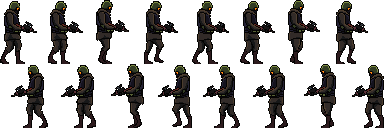
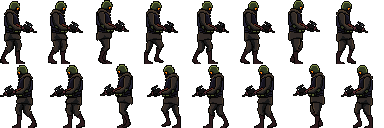
Add rangers
Rangers can:
- periodically hunt for a specified animal species
- reveal poachers
- kill poachers
- reveal the area around them at night

Changed region(s): [[0.0, 0.5, 1.0, 1.0]]

diff --git a/Safari/Safari/Source/Objects/Entities/Ranger.cs b/Safari/Safari/Source/Objects/Entities/Ranger.cs
@@ -1,35 +1,106 @@
-using Microsoft.Xna.Framework;
+using Engine;
+using Engine.Components;
+using Microsoft.Xna.Framework;
+using Microsoft.Xna.Framework.Graphics;
+using Safari.Components;
 using Safari.Objects.Entities.Animals;
 using Safari.Scenes;
+using System;
 
 namespace Safari.Objects.Entities;
+
+public enum RangerState {
+	Wandering,
+	Chasing
+}
+
 public class Ranger : Entity {
 	/// <summary>
 	/// The monthly salary of all rangers, payed in advance
 	/// </summary>
 	public const int SALARY = 1500;
+	/// <summary>
+	/// The amount of hours that must pass after a successful hunt (killing an ANIMAL) before the ranger will try again
+	/// </summary>
+	public const int HUNT_COOLDOWN_HRS = 12;
+	/// <summary>
+	/// The walking speed of rangers (relative to the default NavCmp speed)
+	/// </summary>
+	public const float SPEED = 1f;
 
-	private static AnimalSpecies? defaultTarget;
-	private AnimalSpecies? targetSpecies;
-	
 	/// <summary>
 	/// The species of animals rangers should target when they
 	/// don't have a specific target (can be changed by the player)
 	/// </summary>
-	public static AnimalSpecies? DefaultTarget {
-		get => defaultTarget;
-		set => defaultTarget = value;
-	}
+	public static AnimalSpecies? DefaultTarget { get; set; } = null;
+
+	private AnimalSpecies? targetSpecies = null;
 	/// <summary>
-	/// The species of animals this particular ranger should target
+	/// The species of animals this particular ranger should target <br/>
+	/// Set to null to use <see cref="DefaultTarget"/>
 	/// </summary>
 	public AnimalSpecies? TargetSpecies {
-		get => targetSpecies;
-		set => targetSpecies = value;
+		get {
+			return targetSpecies ?? DefaultTarget;
+		}
+		set {
+			targetSpecies = value;
+		}
 	}
+
+	/// <summary>
+	/// The Animal or Poacher the ranger is currently chasing
+	/// </summary>
+	public Entity ChaseTarget { get; private set; } = null;
+
+	/// <summary>
+	/// The in-game date of the last successful animal killing
+	/// </summary>
+	public DateTime LastSuccessfulHunt { get; private set; } = DateTime.MinValue;
+	/// <summary>
+	/// Whether the ranger can try to hunt for an animal again
+	/// </summary>
+	public bool CanHunt => (GameScene.Active.Model.IngameDate - LastSuccessfulHunt).TotalHours >= HUNT_COOLDOWN_HRS;
+
+	/// <summary>
+	/// The animated sprite component of the ranger
+	/// </summary>
+	public AnimatedSpriteCmp AnimatedSprite => Sprite as AnimatedSpriteCmp;
+	/// <summary>
+	/// The state machine used for transitioning between the different ranger behavior types
+	/// </summary>
+	public StateMachineCmp<RangerState> StateMachine { get; init; }
+	/// <summary>
+	/// Shorthand for StateMachine.State
+	/// </summary>
+	public RangerState State => StateMachine.CurrentState;
+
+	private int lastSalaryMonth = -1;
 
 	public Ranger(Vector2 pos) : base(pos) {
 		DisplayName = "Ranger";
+
+		AnimatedSpriteCmp animSprite = new(Game.ContentManager.Load<Texture2D>("Assets/Ranger/Walk"), 8, 2, 10);
+		animSprite.Animations["walk-right"] = new Animation(0, 8, true);
+		animSprite.Animations["walk-left"] = new Animation(1, 8, true);
+		Sprite = animSprite;
+		Sprite.LayerDepth = Animal.ANIMAL_LAYER;
+		Sprite.YSortEnabled = true;
+		Sprite.YSortOffset = 64;
+		Attach(Sprite);
+
+		animSprite.CurrentAnimation = "walk-right";
+
+		Bounds = new Rectangle(0, 0, 25, 64);
+		SightDistance = 8;
+		ReachDistance = 3;
+		NavCmp.Speed *= SPEED;
+
+		StateMachine = new(RangerState.Wandering);
+		Attach(StateMachine);
+
+		LightEntityCmp lightCmp = new(GameScene.Active.Model.Level, 5);
+		Attach(lightCmp);
 	}
 
 	public override void Load() {
@@ -42,5 +113,152 @@ public class Ranger : Entity {
 		GameScene.Active.Model.RangerCount--;
 
 		base.Unload();
+	}
+
+	public override void Update(GameTime gameTime) {
+		DateTime date = GameScene.Active.Model.IngameDate;
+		if (lastSalaryMonth != date.Month) {
+			int monthDays = DateTime.DaysInMonth(date.Year, date.Month);
+			float salaryRatio = (float)(monthDays - date.Day - 1) / monthDays;
+			GameScene.Active.Model.Funds -= (int)(SALARY * salaryRatio);
+			lastSalaryMonth = date.Month;
+		}
+
+		if (NavCmp.LastIntendedDelta != Vector2.Zero) {
+			bool right = NavCmp.LastIntendedDelta.X > -0.075f;
+			string anim = $"walk-{(right ? "right" : "left")}";
+
+			if (!AnimatedSprite.IsPlaying || (AnimatedSprite.CurrentAnimation != anim && AnimatedSprite.CurrentAnimation.StartsWith("walk"))) {
+				AnimatedSprite.CurrentAnimation = anim;
+			}
+		}
+
+		foreach (Entity entity in GetEntitiesInSight()) {
+			if (entity is Poacher poacher) {
+				poacher.Reveal();
+			}
+		}
+
+		base.Update(gameTime);
+	}
+
+	public override string ToString() {
+		return $"{DisplayName}, {State}, target: {(NavCmp.Target != null ? Utils.Format(NavCmp.Target.Value, false, false) : "none")}";
+	}
+
+	/// <summary>
+	/// Releases the ranger from the park
+	/// </summary>
+	public void Fire() {
+		Die();
+	}
+
+	/// <summary>
+	/// Delegate method for transitioning into Wandering state
+	/// </summary>
+	[StateBegin(RangerState.Wandering)]
+	public void StartWandering() {
+		NavCmp.TargetPosition = GameScene.Active.Model.Level.GetRandomPosition();
+		NavCmp.Moving = true;
+		NavCmp.ReachedTarget += OnWanderingTargetReached;
+	}
+
+	/// <summary>
+	/// Delegate method for handling frame-by-frame wandering logic
+	/// </summary>
+	/// <param name="gameTime">The current MonoGame game time</param>
+	[StateUpdate(RangerState.Wandering)]
+	public void WanderingUpdate(GameTime gameTime) {
+		foreach (Entity entity in GetEntitiesInSight()) {
+			if (CanHunt && ChaseTarget == null && entity is Animal animal && animal.Species == TargetSpecies) {
+				ChaseTarget = animal;
+				StateMachine.Transition(RangerState.Chasing);
+			}
+
+			if (entity is Poacher poacher) {
+				ChaseTarget = poacher;
+				StateMachine.Transition(RangerState.Chasing);
+			}
+		}
+	}
+
+	/// <summary>
+	/// Delegate method for transitioning out of Wandering state
+	/// </summary>
+	[StateEnd(RangerState.Wandering)]
+	public void EndWandering() {
+		NavCmp.TargetPosition = null;
+		NavCmp.ReachedTarget -= OnWanderingTargetReached;
+	}
+
+	private void OnWanderingTargetReached(object sender, ReachedTargetEventArgs e) {
+		NavCmp.TargetPosition = GameScene.Active.Model.Level.GetRandomPosition();
+		NavCmp.Moving = true;
+	}
+
+	/// <summary>
+	/// Delegate method for transitioning into Chasing state
+	/// </summary>
+	[StateBegin(RangerState.Chasing)]
+	public void StartChasing() {
+		if (ChaseTarget == null) {
+			StateMachine.Transition(RangerState.Wandering);
+			return;
+		}
+
+		NavCmp.TargetObject = ChaseTarget;
+		NavCmp.Moving = true;
+		NavCmp.ReachedTarget += OnChaseTargetReached;
+		ChaseTarget.Died += OnChaseTargetDied;
+	}
+
+	private void OnChaseTargetDied(object sender, EventArgs e) {
+		ChaseTarget.Died -= OnChaseTargetDied;
+		ChaseTarget = null;
+		NavCmp.TargetObject = null;
+		StateMachine.Transition(RangerState.Wandering);
+	}
+
+	/// <summary>
+	/// Delegate method for handling frame-by-frame Chasing state logic
+	/// </summary>
+	/// <param name="gameTime"></param>
+	[StateUpdate(RangerState.Chasing)]
+	public void ChasingUpdate(GameTime gameTime) {
+		if (ChaseTarget is Poacher) return;
+
+		foreach (Entity entity in GetEntitiesInSight()) {
+			if (entity is Poacher) {
+				ChaseTarget.Died -= OnChaseTargetDied;
+				ChaseTarget = entity;
+				StateMachine.Transition(RangerState.Chasing);
+				break;
+			}
+		}
+	}
+
+	/// <summary>
+	/// Delegate method for transitioning out of Chasing state
+	/// </summary>
+	[StateEnd(RangerState.Chasing)]
+	public void EndChasing() {
+		if (ChaseTarget != null && ChaseTarget == NavCmp.TargetObject) {
+			ChaseTarget.Died -= OnChaseTargetDied;
+		}
+
+		NavCmp.TargetObject = null;
+		NavCmp.ReachedTarget -= OnChaseTargetReached;
+	}
+
+	private void OnChaseTargetReached(object sender, ReachedTargetEventArgs e) {
+		if (ChaseTarget is Animal) {
+			LastSuccessfulHunt = GameScene.Active.Model.IngameDate;
+		}
+
+		if (ChaseTarget != null && !ChaseTarget.IsDead) {
+			ChaseTarget.Die();
+		}
+
+		StateMachine.Transition(RangerState.Wandering);
 	}
 }

diff --git a/Safari/Safari/Source/Components/LightEntityCmp.cs b/Safari/Safari/Source/Components/LightEntityCmp.cs
@@ -2,6 +2,7 @@
 using Engine.Components;
 using Microsoft.Xna.Framework;
 using Safari.Model;
+using Safari.Objects.Entities;
 using Safari.Scenes;
 
 namespace Safari.Components;
@@ -11,31 +12,26 @@ namespace Safari.Components;
 /// The reason this is different from the way tiles calculate their light is because
 /// entities can move between tiles.
 /// </summary>
+[LimitCmpOwnerType(typeof(Entity))]
 public class LightEntityCmp : Component, IUpdatable {
-
 	private Level level;
 	private int range;
 	private Point? old_map_pos = null;
-	private SpriteCmp sprite;
+	private Entity ownerEntity;
 
 	public LightEntityCmp(Level level, int range) {
 		this.level = level;
 		this.range = range;
-		
 	}
 
 	public override void Load() {
-		sprite = Owner.GetComponent<SpriteCmp>();
+		ownerEntity = Owner as Entity;
+
+		base.Load();
 	}
 
 	public void Update(GameTime gameTime) {
-		int tileSize = GameScene.Active.Model.Level.TileSize;
-		Point offset = new Point(0, 0);
-		if (sprite != null) {
-			offset = (sprite.SourceRectangle?.Size ?? sprite.Texture.Bounds.Size) / new Point(2);
-			offset -= new Point((int)sprite.Origin.X, (int)sprite.Origin.Y);
-		}
-		Point centerPoint = Owner.Position.ToPoint() + offset;
+		Point centerPoint = ownerEntity.CenterPosition.ToPoint();
 		int map_x = (int)(centerPoint.X / (float)level.TileSize);
 		int map_y = (int)(centerPoint.Y / (float)level.TileSize);
 		Point map_pos = new Point(map_x, map_y);

diff --git a/Safari/Safari/Source/Objects/Entities/Poacher.cs b/Safari/Safari/Source/Objects/Entities/Poacher.cs
@@ -211,6 +211,14 @@ public class Poacher : Entity {
 		NavCmp.Moving = true;
 		NavCmp.StopOnTargetReach = true;
 		NavCmp.ReachedTarget += OnChaseTargetReached;
+		ChaseTarget.Died += OnChaseTargetDied;
+	}
+
+	private void OnChaseTargetDied(object sender, EventArgs e) {
+		ChaseTarget.Died -= OnChaseTargetDied;
+		ChaseTarget = null;
+		NavCmp.TargetObject = null;
+		StateMachine.Transition(PoacherState.Wandering);
 	}
 
 	/// <summary>
@@ -233,6 +241,10 @@ public class Poacher : Entity {
 	/// </summary>
 	[StateEnd(PoacherState.Chasing)]
 	public void EndChasing() {
+		if (ChaseTarget != null) {
+			ChaseTarget.Died -= OnChaseTargetDied;
+		}
+
 		ChaseTarget = null;
 		NavCmp.TargetObject = null;
 		NavCmp.Moving = false;

diff --git a/Safari/Safari/Source/Model/MapBuilder.cs b/Safari/Safari/Source/Model/MapBuilder.cs
@@ -478,6 +478,16 @@ public static class MapBuilder {
 		for (int i = 0; i < Jeep.STARTING_JEEPS; i++) {
 			Jeep.SpawnJeep();
 		}
+
+		Ranger ranger1 = new Ranger(new Vector2(300, 300)) {
+			TargetSpecies = AnimalSpecies.Lion
+		};
+		Game.AddObject(ranger1);
+
+		Ranger ranger2 = new Ranger(new Vector2(1500, 700)) {
+			TargetSpecies = AnimalSpecies.TigerWhite
+		};
+		Game.AddObject(ranger2);
 	}
 
 	private static Gender IntegerToGender(int i) => i % 2 == 0 ? Gender.Female : Gender.Male;
